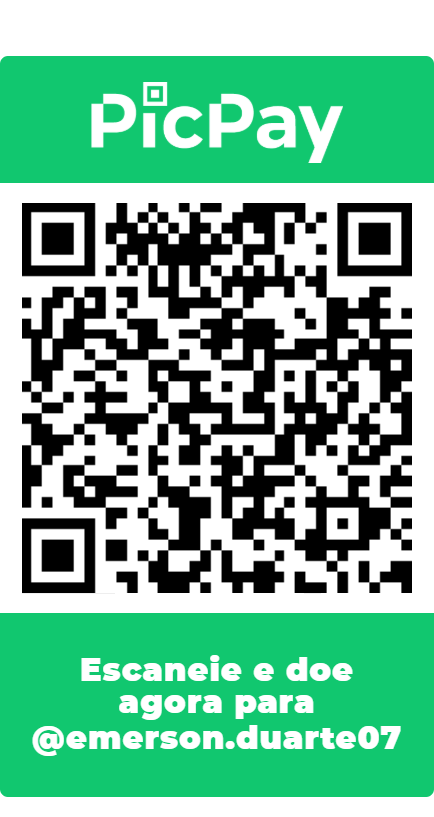
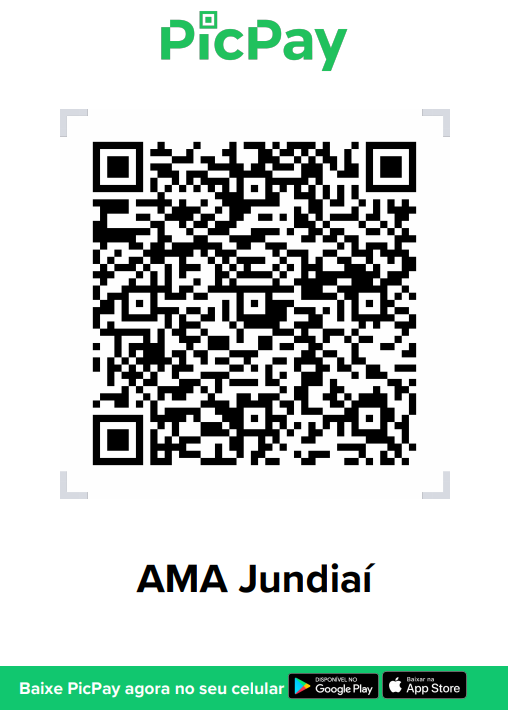
picpay

diff --git a/src/index.html b/src/index.html
@@ -10,63 +10,59 @@
 
     <title>AMA Jundiaí</title>
     <link rel="canonical" href="www.amajundiai.org.br/index.html">
-    <link href="https://fonts.googleapis.com/css2?family=Poppins:wght@400;700&display=swap" rel="stylesheet">
+    <link href="https://fonts.googleapis.com/css2?family=Archivo&family=Poppins:wght@400;700&display=swap" rel="stylesheet">
     <link rel="stylesheet" href="css/main.css">
   </head>
   <body>
-    <main role="main" class="container-fluid">
+    <main role="main" class="body">
       <header id="home" class="header">
           <img src="./img/bg1.png"  alt="img_home">
       </header>
-      <section id="mapa" class="box-body" style="margin-top: 5px;">
-          <div>
-            <div>
-              <h4>Contatos</h4>
-              <p>Entre em contato também pelo whatsapp</p>
-              <h6>Telefone: (11) 4087-2172</h6>
-              <h6>Celular: (11) 97119-7857</h6>
-              <h6>E-mail: <a href="mailto:contato@amajundiai.org.br">contato@amajundiai.org.br</a></h6>
-              <h6><strong>Visite nossas redes sociais</strong></h6>
-              <a href="https://www.instagram.com/ama.jundiai">
-                <img src="img/icons/in.png" alt="img_foo"></img>
-              </a>
-              <a href="https://www.facebook.com/amajundiai" target="blank">
-                <img src="img/icons/fb.png" alt="img_foo"></img>
-              </a>
-              <a href="https://www.linkedin.com/company/amajundiai" target="blank">
-                <img src="img/icons/li.png" alt="img_foo"></img>
-              </a>
-              <p></p>
-              <h6><strong>Atendimento</strong> de segunda a sexta das 8:00 as 17:00</h6>
-              
-             
-              <hr>
-              <!--<img src="../src/img/qrcode.png" width="230" height="400"  alt="img_home">-->
-            </div>
-          </div>
-            <div>
-              <div class="box-body" >
-                <h4>Localização</h4>
-                <p>Utilize o mapa abaixo para localizar nosso endereço.</p>
-                <iframe src="https://www.google.com/maps/embed?pb=!1m18!1m12!1m3!1d3668.5145224556704!2d-46.85148698448318!3d-23.151414052467146!2m3!1f0!2f0!3f0!3m2!1i1024!2i768!4f13.1!3m3!1m2!1s0x94cf271a7ed9a665%3A0x7a56514737c45a9c!2sAMA%20JUNDIA%C3%8D!5e0!3m2!1spt-BR!2sbr!4v1596069045327!5m2!1spt-BR!2sbr" width="100%" height="350" frameborder="0" style="border:0;" allowfullscreen="" aria-hidden="false" tabindex="0"></iframe>
-              </div>
-            </div>
-        </div>  
-      </section>    
-    </main>
-    <a href="https://api.whatsapp.com/send?phone=+5511971197857&text=Olá, preciso de informações sobre a AMA Jundiaí" target="_blank">
-      <div class="whatsapp">
-        <img  src="img/icons/wt.png" alt="img_com"></img>
-      </div>
-    </a>
-    <footer class="container-fluid">
-      <div class="footer">
-        <h5>
-          <strong>AMA Jundiaí</strong> - Associação de Amigos do Autista - Todos os direitos reservados<br>
-        </h5>
-        <h6>Av. Humberto Cereser, 2960 - Jardim Caxambu, Jundiaí - SP</h6>
+      <section id="box" class="body">
+        <div class="box-body-item">
+          <header>Contatos</header>
+          <p>Entre em contato também pelo whatsapp, clique no número abaixo <br/><br/>
+              Telefones: (11) 4087-2172 e 
+              <a href="https://api.whatsapp.com/send?phone=+5511971197857" target="_blank">(11) 97119-7857</a>
+              <img src="./img/icons/wt.png" />
+              <br/>
+              E-mail: <a href="mailto:contato@amajundiai.org.br">contato@amajundiai.org.br</a>
+          </p>
+          <p><strong>Visite nossas redes sociais</strong></p>
+          <a href="https://www.instagram.com/ama.jundiai">
+            <img src="img/icons/in.png" alt="img_foo"></img>
+          </a>
+          <a href="https://www.facebook.com/amajundiai" target="blank">
+            <img src="img/icons/fb.png" alt="img_foo"></img>
+          </a>
+          <a href="https://www.linkedin.com/company/amajundiai" target="blank">
+            <img src="img/icons/li.png" alt="img_foo"></img>
+          </a>
+          <p><strong>Atendimento</strong> de segunda a sexta das 8:00 as 17:00</p>
         </div>
-    </footer>
+        <div class="box-body-item">
+          <header>Doação <img src="./img/icons/purple-heart.svg" alt=""></header>
+          <p>Ajude a AMA Jundiaí, doe através do Picpay.</p>
+          <p>Abra o app e escanei o QR Code abaixo.</p>
+          <div>
+            <img src="./img/qrcode.png" alt="picpay"></div>
+        </div>
+        <!--<img src="../src/img/qrcode.png" width="230" height="400"  alt="img_home">-->
+        <div class="box-body-item">
+          <header>Localização</header>
+          <p>Utilize o mapa abaixo para localizar nosso endereço.</p>
+          <iframe src="https://www.google.com/maps/embed?pb=!1m18!1m12!1m3!1d3668.5145224556704!2d-46.85148698448318!3d-23.151414052467146!2m3!1f0!2f0!3f0!3m2!1i1024!2i768!4f13.1!3m3!1m2!1s0x94cf271a7ed9a665%3A0x7a56514737c45a9c!2sAMA%20JUNDIA%C3%8D!5e0!3m2!1spt-BR!2sbr!4v1596069045327!5m2!1spt-BR!2sbr" width="100%" height="380" frameborder="0" style="border:0;" allowfullscreen="" aria-hidden="false" tabindex="0"></iframe>
+       </div>  
+      </section>    
+      <footer class="container-fluid">
+        <div class="footer">
+          <h5>
+            <strong>AMA Jundiaí</strong> - Associação de Amigos do Autista - Todos os direitos reservados<br>
+          </h5>
+          <h6>Endereço: Av. Humberto Cereser, 2960 - Jardim Caxambu, Jundiaí - SP</h6>
+          </div>
+      </footer>
+    </main>
   <!-- Optional JavaScript -->
     <!-- Global site tag (gtag.js) - Google Analytics -->
     <script async src="https://www.googletagmanager.com/gtag/js?id=UA-173980341-1"></script>
@@ -77,11 +73,6 @@
 
       gtag('config', 'UA-173980341-1');
     </script>
-
-    <!-- jQuery first, then Popper.js, then Bootstrap JS -->
-    <script src="https://code.jquery.com/jquery-3.5.1.slim.min.js" integrity="sha384-DfXdz2htPH0lsSSs5nCTpuj/zy4C+OGpamoFVy38MVBnE+IbbVYUew+OrCXaRkfj" crossorigin="anonymous"></script>
-    <script src="https://cdn.jsdelivr.net/npm/popper.js@1.16.0/dist/umd/popper.min.js" integrity="sha384-Q6E9RHvbIyZFJoft+2mJbHaEWldlvI9IOYy5n3zV9zzTtmI3UksdQRVvoxMfooAo" crossorigin="anonymous"></script>
-    <script src="https://stackpath.bootstrapcdn.com/bootstrap/4.5.0/js/bootstrap.min.js" integrity="sha384-OgVRvuATP1z7JjHLkuOU7Xw704+h835Lr+6QL9UvYjZE3Ipu6Tp75j7Bh/kR0JKI" crossorigin="anonymous"></script>
   </body>
   
 </html>

diff --git a/src/css/main.css b/src/css/main.css
@@ -1,39 +1,74 @@
+:root {
+  --color-background: #F0F0F7;
+  --color-primary-lighter: #9871F5;
+  --color-primary-light: #916BEA;
+  --color-primary: #8257E5;
+  --color-primary-dark: #774DD6;
+  --color-primary-darker: #6842C2;
+  --color-secundary: #04D361;
+  --color-secundary-dark: #04BF58;
+  --color-title-in-primary: #FFFFFF;
+  --color-text-in-primary: #D4C2FF;
+  --color-text-title: #32264D;
+  --color-text-complement: #9C98A6;
+  --color-text-base: #6A6180;
+  --color-line-in-white: #E6E6F0;
+  --color-input-background: #F8F8FC;
+  --color-button-text: #FFFFFF;
+  --color-box-base: #FFFFFF;
+  --color-box-footer: #FAFAFC;
+  --color-primary-header: #439AF9;
+  
+  font-size: 100%;
+}
+.body {
+  background-color: var(--color-background);
+  margin: 0;
+  padding: 0;
+  box-sizing: 0;
+}
 .header {
-  width: 100%;
-  height: 0 auto;
-  background-color: #439AF9;
+  display: flex;
+  width: 0 auto;
+  background-color: var(--color-primary-header);
 }
 .header img{
   width: 100%;
 }
-.box-body {
-  text-align: center;
-  padding: 0;
-  margin: 0;
+
+.box-body-item {
+  background: var(--color-box-base);
+  border: var(--color-line-in-write);
+  border-radius: 0.8rem;
+  margin-top: 2.4rem;
+  margin: 0.8rem;
+  overflow: hidden;
+  padding: 3.2rem 2rem;
 }
-.box-body a {
-  text-decoration: none;
-}
-.box-body h4 {
-  margin-top: 20px;
-  padding: 0;
+.box-body-item header {
   font: 700 1.8rem Poppins;
   color: dimgray;
+  padding: 0;
+  align-items: center;
 }
-.box-body h6 {
-  font-weight: lighter;
-  font: 400 0.9rem Poppins;
+.box-body-item p {
+  font: 400 0.9rem Archivo;
 }
-.box-body p {
-  font: 400 0.8rem Poppins;
+.box-body-item p img {
+  width: 1.0rem;
+  height: 1.0rem;
 }
-.box-body hr {
-  opacity: inherit;
+.box-body-item a {
+  text-decoration: none;
 }
-.box-body img {
-  width: 40px;
-  height: 40px;
+.box-body-item img {
+  width: 30px;
+  height: 30px;
   padding: 3px;
+}
+.box-body-item div img {
+  width: 350px;
+  height: 450px;
 }
 
 .whatsapp {
@@ -41,7 +76,6 @@
   top: 80%;
   left: 10%;
 }
-
 .whatsapp img {
   text-align: center;
   width: 60px;
@@ -54,16 +88,15 @@
   margin: 0;
   height: 0 auto;
   margin-top: 20px;
-  background-color: lightgray;
   color: black;
 }
 
 .footer h5 {
-  font: 400 0.9rem Poppins;
+  font: 400 0.9rem Archivo;
 }
 
 .footer h6 {
-  font: 400 0.7rem Poppins;
+  font: 400 0.7rem Archivo;
 }
 
 
@@ -71,4 +104,10 @@
   .header img {
     width: auto;
   }
+  .box-body-item {
+    text-align: center;
+    padding: 3.2rem 2;
+    max-width: 1000px;
+    margin: 10px auto;
+}
 }
